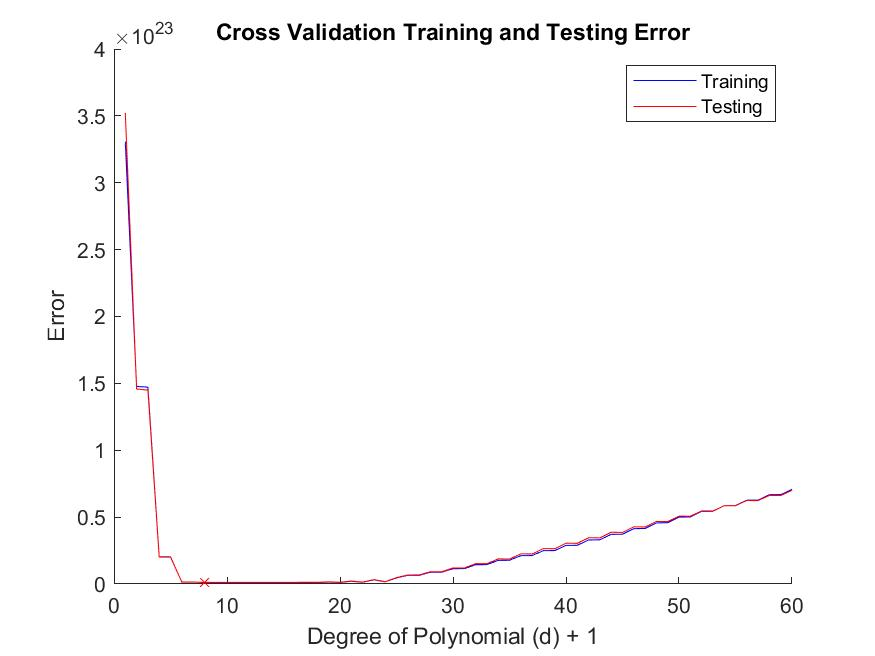
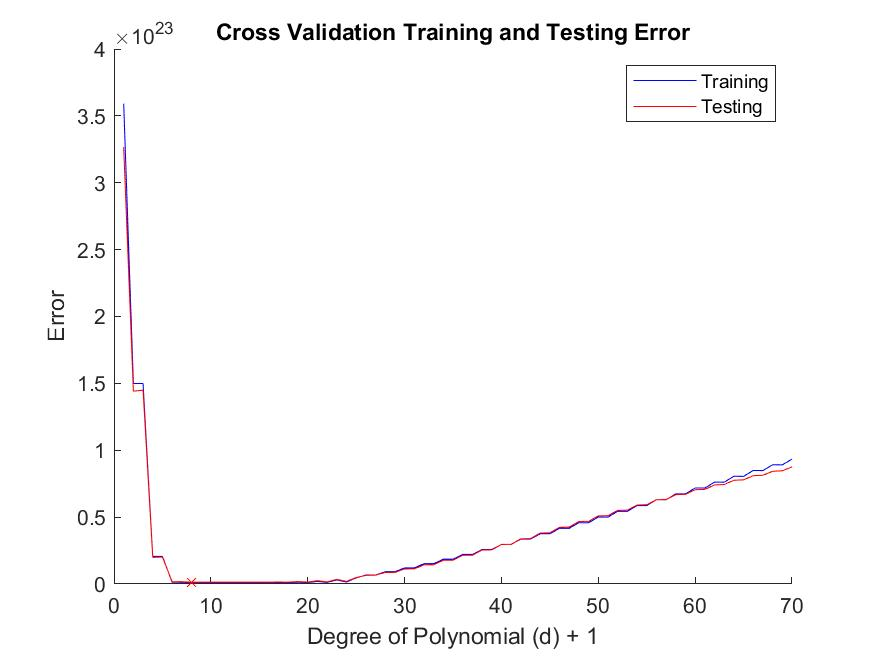
Updated problem1.mat
Modified code for splitting dataset

diff --git a/HW1/problem1_solution.m b/HW1/problem1_solution.m
@@ -27,16 +27,15 @@ close all;
 
 % Dividing data into training and testing sets
 [length, ~] = size(X);
-split = 0.50;       % Split ratio is 0.5 i.e. divide into 2 halves
-idx = randperm(length);     % Randomize order of splitting
+[train, test] = crossvalind('HoldOut', length, 0.5);
 
 % Training data
-X_train = X(idx(1:round(split*length)),:);
-y_train = y(idx(1:round(split*length)),:);
+X_train = X(train);
+y_train = y(train);
 
 % Testing data
-X_test = X(idx(round(split*length)+1:end),:);
-y_test = y(idx(round(split*length)+1:end),:);
+X_test = X(test);
+y_test = y(test);
 
 % Preallocating variables for speed
 model_training_errors = [];
